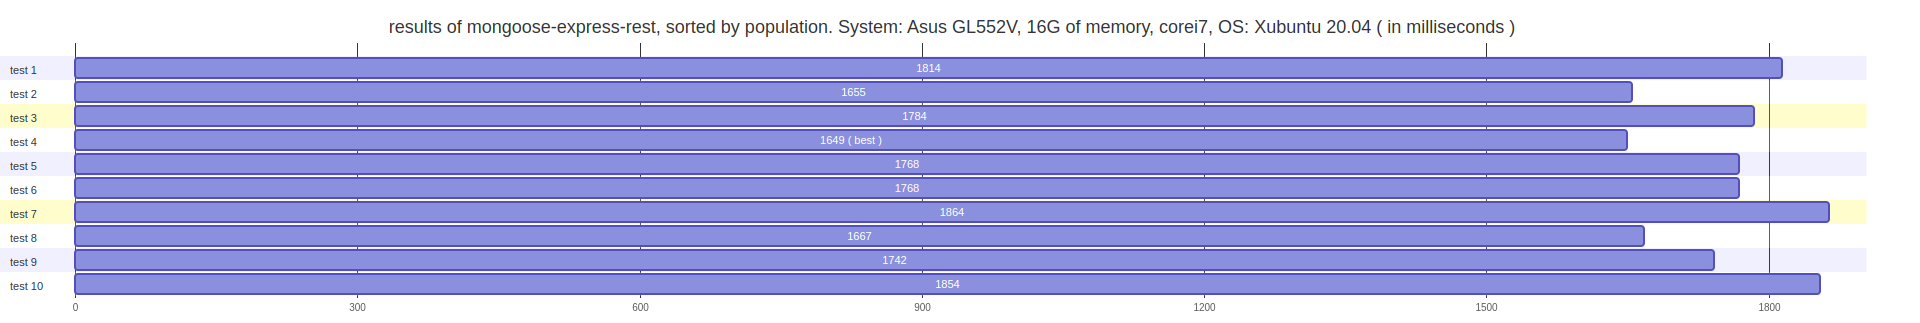
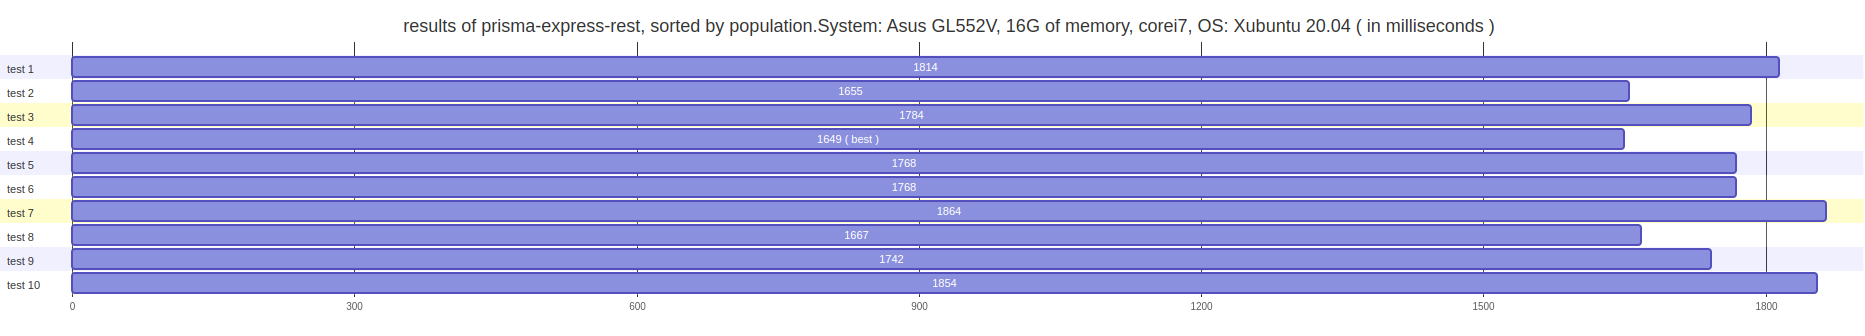
update prisma results

diff --git a/src/http/best-results.md b/src/http/best-results.md
@@ -1,11 +1,13 @@
 %% to see results online: https://mermaid.live/
 gantt
-   	title The best results of benchmarks on the same system: Asus GL552V, 16G of memory, corei7 ( in milliseconds ) 
+   	title The best results of benchmarks on the same system: Asus GL552V, 16G of memory, corei7,  ( in milliseconds ) 
     dateFormat X
     axisFormat %s
     section first
     lesan-deno-rest, 130 ms   : 0, 130
     section second
-    mongoose-express-rest (not sorted), 5896 ms    : 0, 5896
+    prisma-express-rest, 1649 ms : 0, 1649
     section third
+    mongoose-express-rest (not sorted), 5896 ms    : 0, 5896
+    section forth
     mongoose-express-rest (sorted), 388793 ms   : 0, 388793

diff --git a/src/http/prisma-express-rest/results.md b/src/http/prisma-express-rest/results.md
@@ -1,6 +1,6 @@
 %% to see results online: https://mermaid.live/
 gantt
-   	title results of mongoose-express-rest, sorted by population.System: Asus GL552V, 16G of memory, corei7, OS: Xubuntu 20.04 ( in milliseconds ) 
+   	title results of prisma-express-rest, sorted by population.System: Asus GL552V, 16G of memory, corei7, OS: Xubuntu 20.04 ( in milliseconds ) 
     dateFormat X
     axisFormat %s
     section test 1
